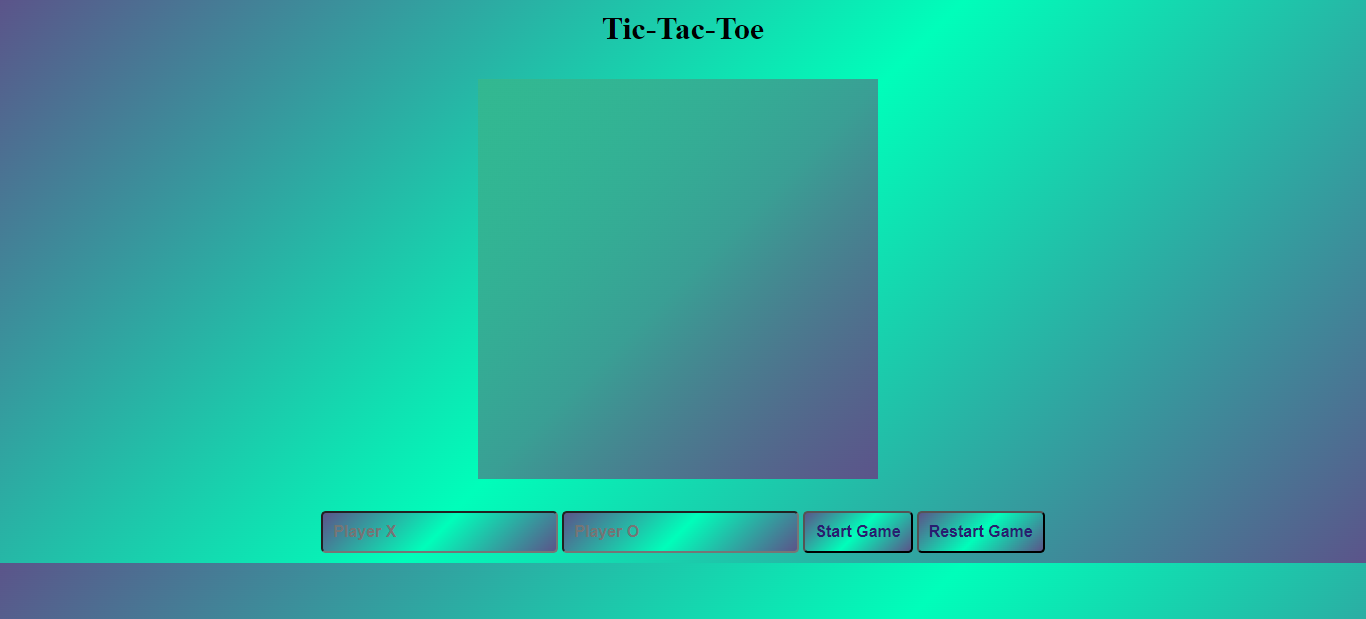
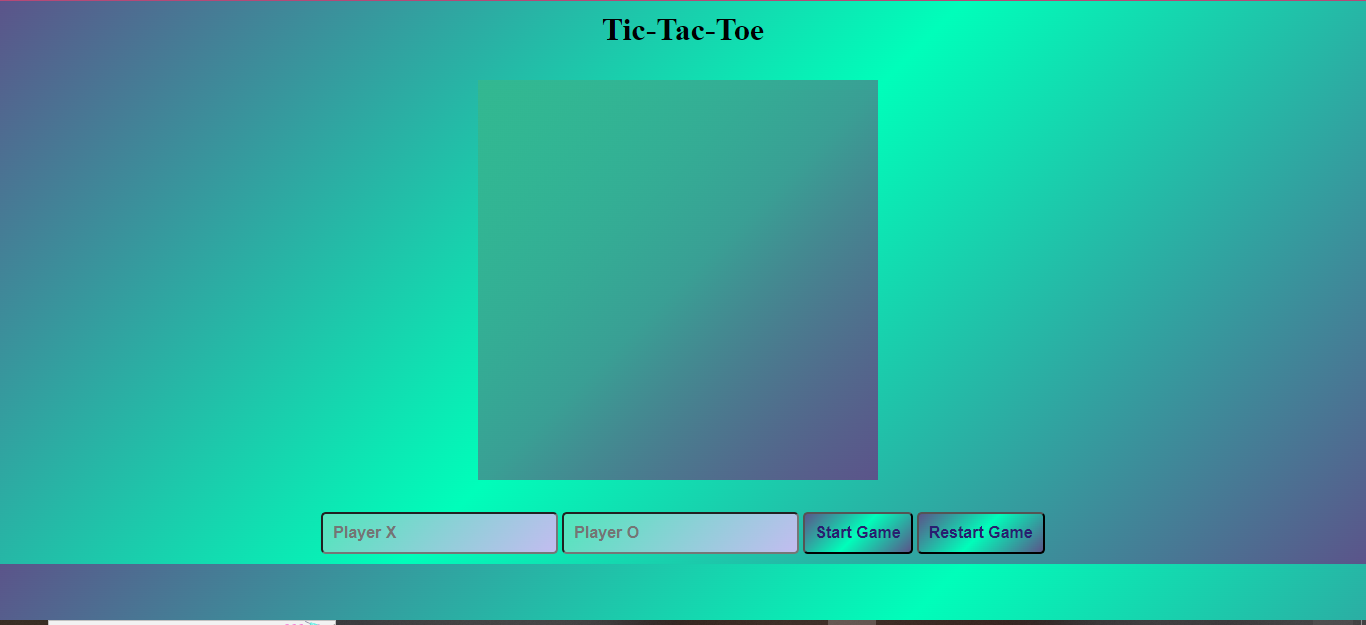
worked in the readme and css

Changed region(s): [[0.0, 0.7674, 1.0, 0.9208], [0.0, 0.9822, 1.0, 1.0], [0.4612, 0.0307, 0.5534, 0.0614]]

diff --git a/style.css b/style.css
@@ -51,6 +51,9 @@ input, button{
     background: linear-gradient(135deg, #5b548a, #00feba, #5b548a);
 }
 
+input{
+    background: linear-gradient(135deg, #50e6bb, #c3bcf0);
+}
 #message{
     text-align: center;
     font-size: 24px;
